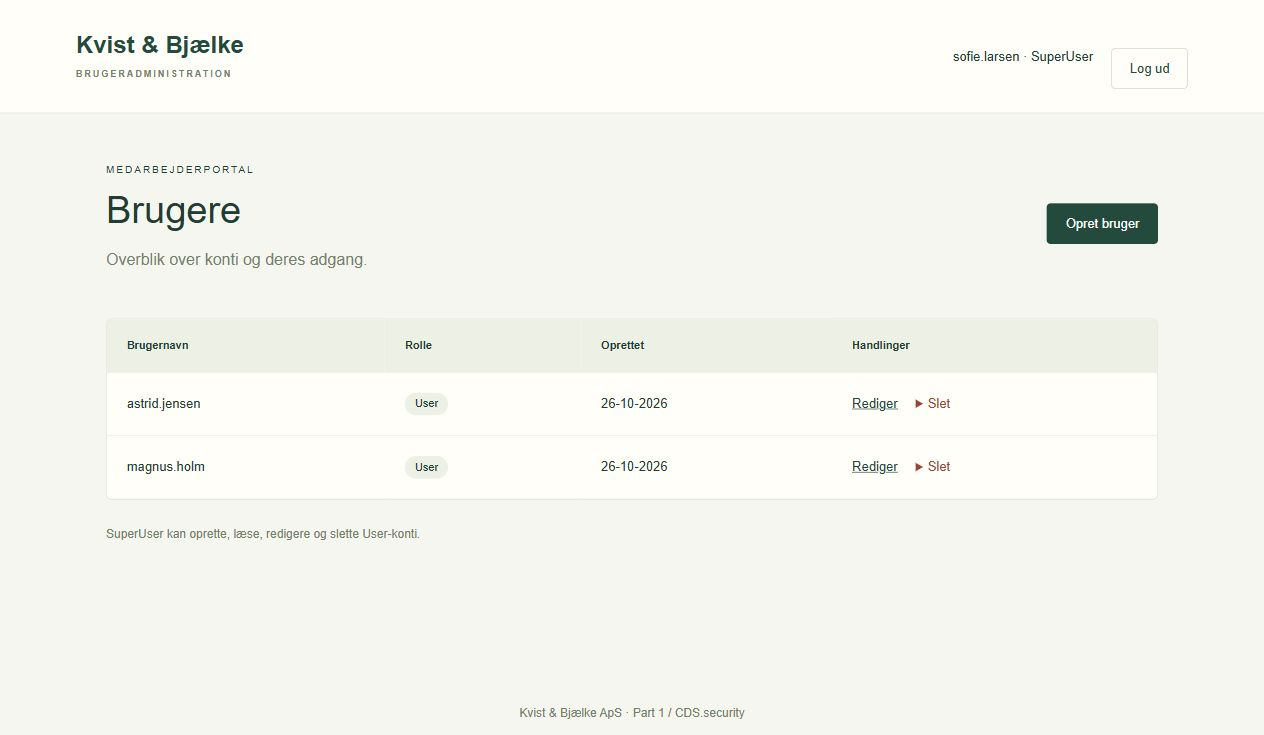
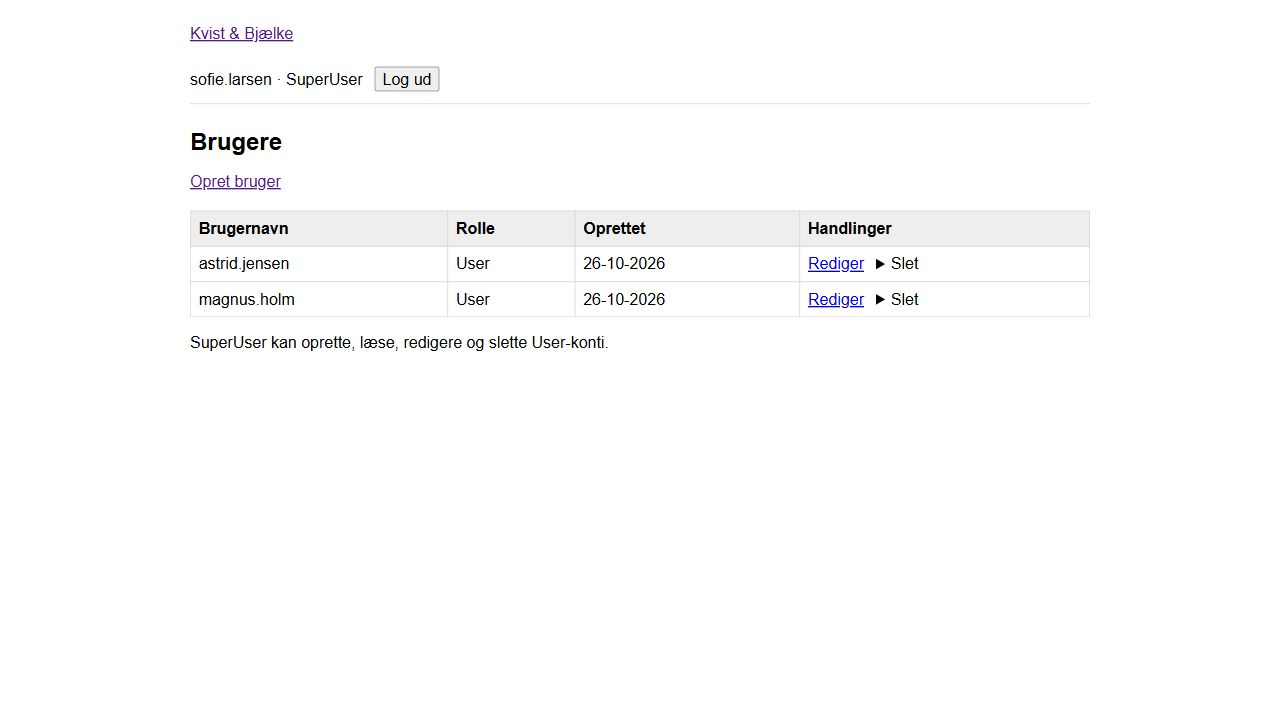
Use plain forms and a basic table without decorative styling

diff --git a/server/Security/wwwroot/site.css b/server/Security/wwwroot/site.css
@@ -1,40 +1,22 @@
-:root { font-family: Arial, sans-serif; color: #233d35; background: #f5f6ef; }
-* { box-sizing: border-box; }
-body { margin: 0; }
-header { padding: 24px 6%; background: #fffef9; border-bottom: 1px solid #dce2d3; display: flex; justify-content: space-between; align-items: center; gap: 20px; }
-.brand { font-size: 24px; font-weight: bold; text-decoration: none; }
-.brand small { display: block; font-size: 9px; letter-spacing: 2px; margin-top: 7px; }
-.account, .actions { display: flex; align-items: center; gap: 18px; flex-wrap: wrap; }
-.account { font-size: 13px; }
-main { max-width: 1100px; margin: 45px auto; padding: 0 24px; min-height: 65vh; }
-footer { padding: 25px; text-align: center; color: #73816a; font-size: 12px; }
-h1 { font-size: 38px; margin: 10px 0; font-weight: 500; }
-h2 { font-size: 23px; font-weight: 500; margin-top: 0; }
-p, small { color: #73816a; line-height: 1.6; }
-a { color: #244a3d; }
-.heading { display: flex; justify-content: space-between; align-items: center; gap: 20px; margin-bottom: 30px; }
-.eyebrow { font-size: 10px; letter-spacing: 2px; }
-.card { background: #fffef9; border: 1px solid #dce2d3; border-radius: 6px; padding: 28px; margin-bottom: 25px; }
-.login { max-width: 400px; margin: 70px auto; }
-.editor { max-width: 540px; }
-label { display: block; font-size: 13px; margin: 20px 0 8px; }
-input, select { width: 100%; border: 1px solid #ccd5c5; border-radius: 4px; padding: 12px; font: inherit; background: white; }
-small { display: block; font-size: 11px; margin-top: 8px; }
-button, .button { display: inline-block; padding: 12px 18px; border: 1px solid transparent; border-radius: 4px; background: #244a3d; color: white; font: inherit; font-size: 13px; cursor: pointer; text-decoration: none; }
-form > button, form > .actions { margin-top: 24px; }
-.secondary { background: transparent; color: #244a3d; border-color: #ccd5c5; }
-.danger { background: #9a4438; }
-.table-wrap { padding: 0; overflow-x: auto; }
-table { width: 100%; border-collapse: collapse; text-align: left; white-space: nowrap; }
-th, td { padding: 20px; border-bottom: 1px solid #e4e9db; font-size: 13px; }
-th { background: #edf1e5; font-size: 11px; }
-.badge { display: inline-block; padding: 5px 10px; border-radius: 20px; background: #edf1e5; font-size: 11px; }
-.muted { font-size: 12px; color: #73816a; }
-.error { color: #9a4438; font-size: 13px; }
+body { font-family: Arial, sans-serif; max-width: 900px; margin: 24px auto; padding: 0 16px; color: black; background: white; }
+header { border-bottom: 1px solid #ccc; padding-bottom: 12px; }
+main { margin-top: 24px; }
+h1 { font-size: 24px; }
+h2 { font-size: 20px; }
+.account, .actions { display: flex; align-items: baseline; gap: 12px; flex-wrap: wrap; }
+.account { margin-top: 12px; }
+.login, .editor { max-width: 400px; }
+.editor { margin: 24px 0; }
+label { display: block; margin: 12px 0 4px; }
+input, select { box-sizing: border-box; width: 100%; padding: 4px; font: inherit; }
+button { font: inherit; cursor: pointer; }
+form > button, form > .actions { margin-top: 12px; }
+small { display: block; margin-top: 6px; }
+.table-wrap { overflow-x: auto; }
+table { width: 100%; border-collapse: collapse; margin-top: 20px; }
+th, td { border: 1px solid #ccc; padding: 8px; text-align: left; }
+th { background: #eee; }
+summary { cursor: pointer; }
+.error { color: #a00; }
+.success { color: #060; }
 .validation-summary-valid { display: none; }
-.success { background: #e5efdd; padding: 15px; color: #345a2c; border-radius: 4px; }
-summary { color: #9a4438; cursor: pointer; }
-details form { white-space: normal; padding-top: 12px; max-width: 230px; }
-details button { margin-top: 10px; }
-:focus-visible { outline: 3px solid #b68843; outline-offset: 3px; }
-@media (max-width: 650px) { header, .heading { align-items: flex-start; flex-direction: column; } .account { gap: 12px; } main { margin-top: 28px; } th, td { padding: 15px; } }
